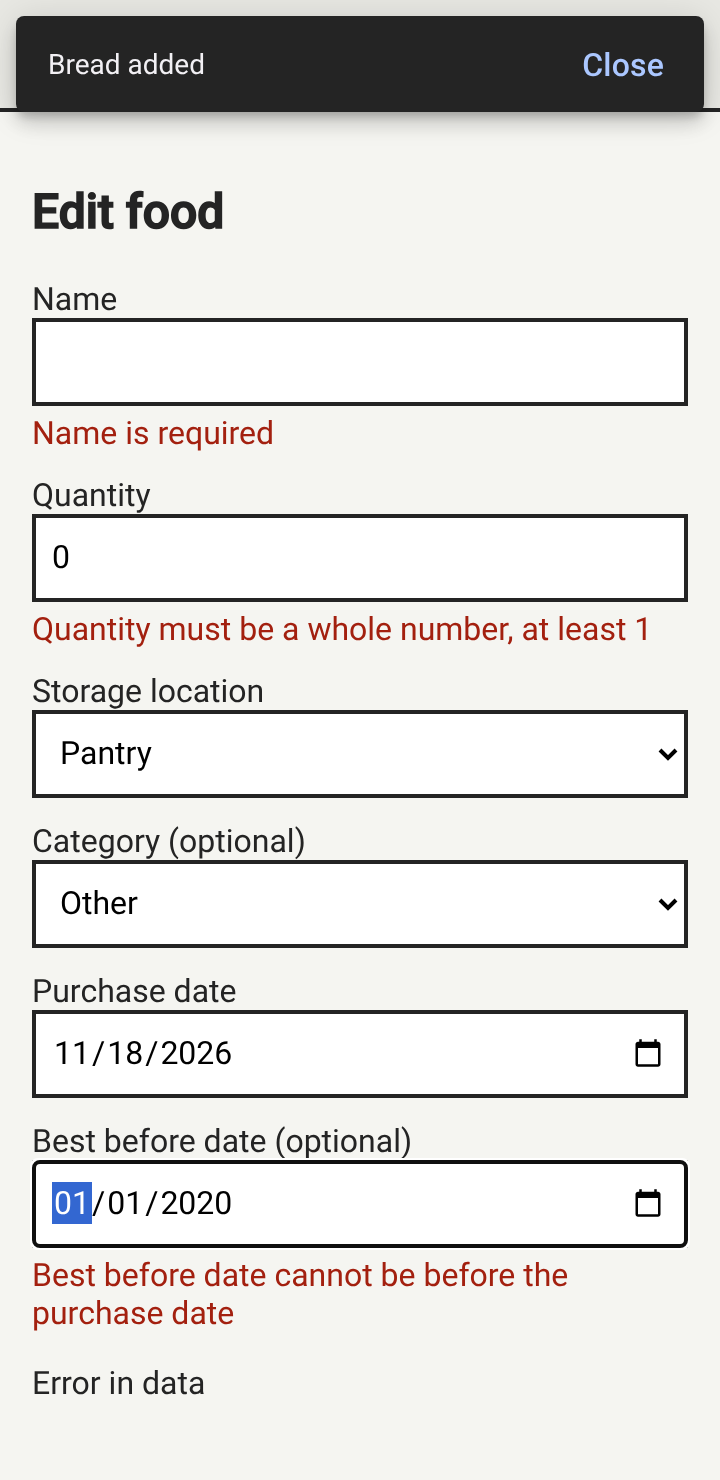
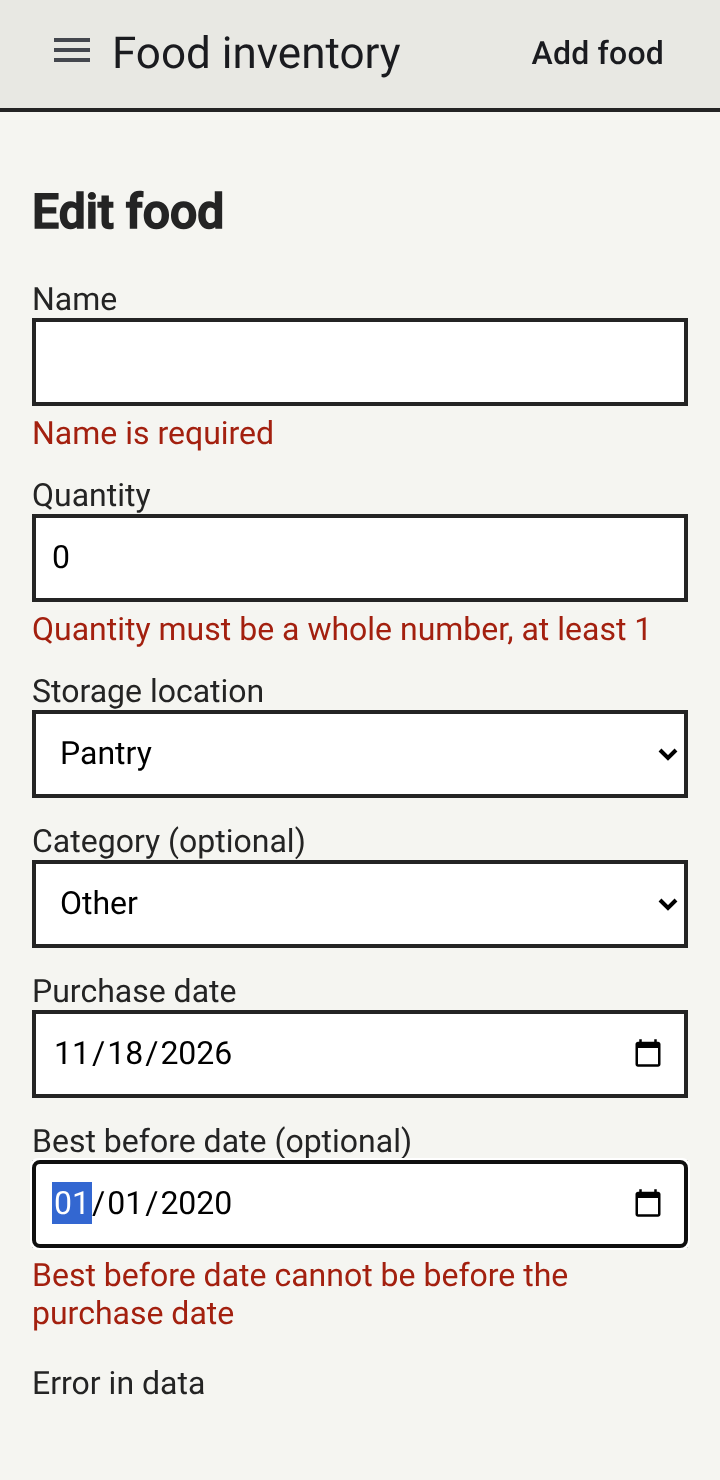
A GIF tour of the project on top of the README (structure, screens, one request end to end); edit screenshots without the old snackbar

Changed region(s): [[0.0, 0.0, 1.0, 0.0932]]

diff --git a/README.md b/README.md
@@ -8,7 +8,7 @@ Why: in 2022 the world wasted 1.05 billion tonnes of food, and 60% of it in hous
 
 Group project for the CBS course *Designing and Developing Digital Business Applications*: a PostgreSQL database, an ASP.NET Core Web API (C#) and an Angular frontend, built the way the course project CourseAdminSystem is built in the lectures.
 
-![Demo of the app at phone width](docs/demo.gif)
+![A tour of the project: the folders and what each part does, the app on a phone, and one request from the form to PostgreSQL and back](docs/food-inventory-tour.gif)
 
 ## Project documents
 
@@ -182,7 +182,9 @@ ng test --watch=false
 
 ## Screenshots
 
-Taken from the running app at phone width (360 px).
+Taken from the running app at phone width (360 px). The whole walk-through as an animation:
+
+<img src="docs/demo.gif" width="300" alt="The app at phone width: list, filters, add, edit, Ate one, delete, categories, storage locations">
 
 | My food: sorted by best before date, with the expiry warning | Filters by category and storage location |
 |---|---|

diff --git a/docs/TESTING.md b/docs/TESTING.md
@@ -89,6 +89,7 @@ Result column: our own run on 18 November 2026 (Chromium at 360 x 740 for the fr
 | F13 | No food in the database (API answers `[]`) | "You have no food yet. Add your first item." | Pass |
 | F14 | Stop the API, reload the list | "Could not load your food. Check that the API is running." | Pass |
 | F15 | The browser console during F1 to F13 | No errors, apart from the browser's own "Failed to load resource: 409 (Conflict)" line for the two refused deletes | Pass |
+| F16 | Stop the API, then Delete a category | Red snackbar "Failed to delete the category" (the 409 text only comes from the API) | Pass |
 
 ## Known limitations (for the reflection in the report)
 
